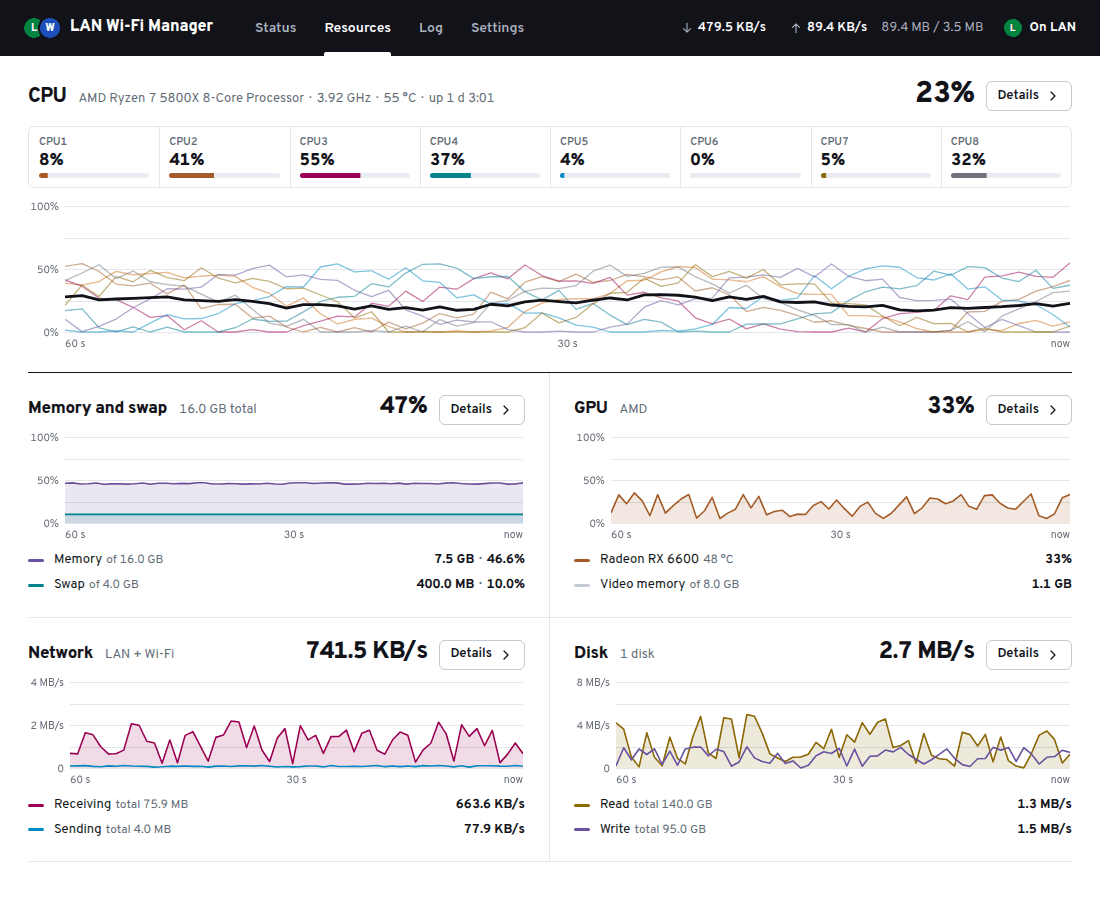
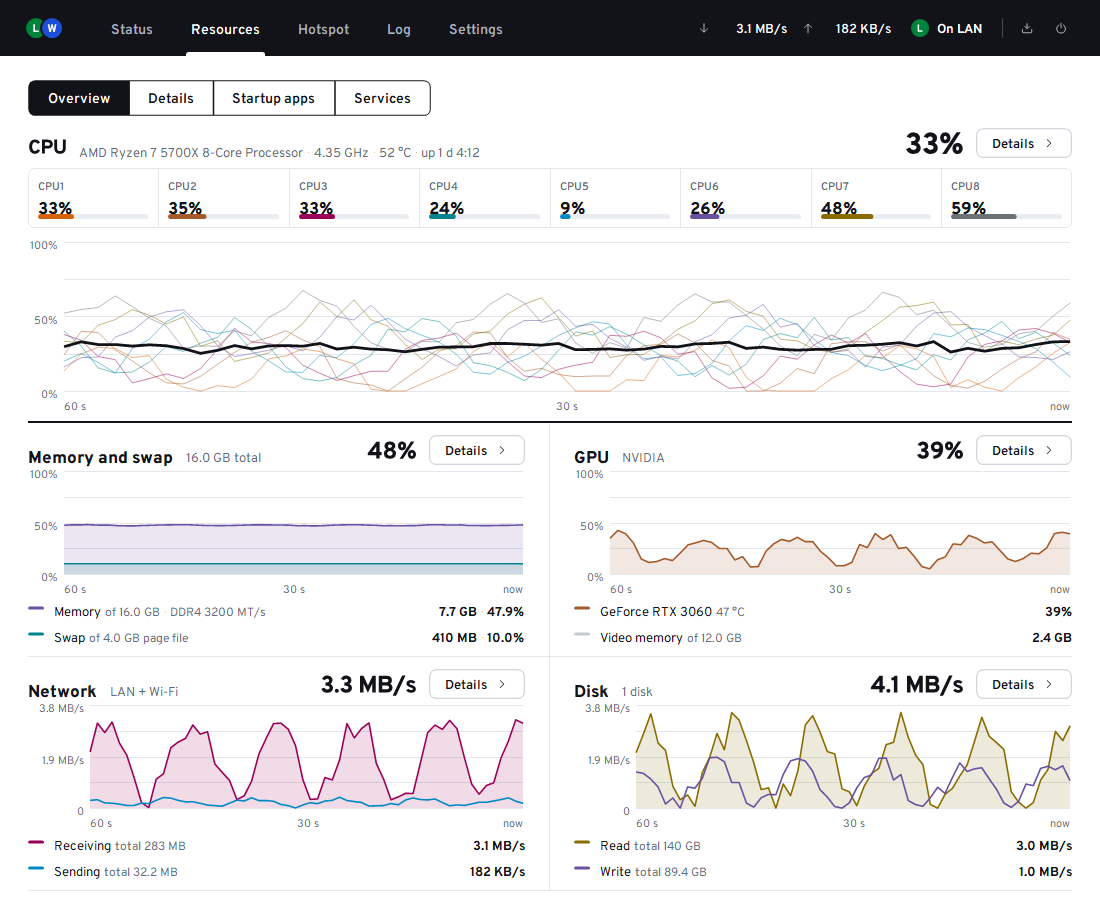
Website: update for 2.6.0, add Split and Hotspot screenshots

Changed region(s): [[0.0, 0.0, 0.9891, 0.9956], [0.7418, 0.0, 0.9582, 0.0622], [0.6491, 0.0, 0.7109, 0.0622]]

diff --git a/docs/index.html b/docs/index.html
@@ -64,22 +64,25 @@
       "applicationSubCategory": "Network failover",
       "installUrl": "https://lan.bilalnasr.com/#download",
       "operatingSystem": "Windows 10, Windows 11, Ubuntu 24.04, macOS 13.6 or later",
-      "softwareVersion": "2.5.0",
+      "softwareVersion": "2.6.0",
       "datePublished": "2026-09-25",
-      "dateModified": "2026-11-01",
-      "releaseNotes": "https://github.com/bilal-nasr/lan-wifi-manager/releases/tag/v2.5.0",
+      "dateModified": "2026-11-03",
+      "releaseNotes": "https://github.com/bilal-nasr/lan-wifi-manager/releases/tag/v2.6.0",
       "license": "https://github.com/bilal-nasr/lan-wifi-manager#license",
       "isAccessibleForFree": true,
       "image": "https://lan.bilalnasr.com/og-image.png",
       "screenshot": [
         "https://lan.bilalnasr.com/status.png",
+        "https://lan.bilalnasr.com/split.png",
+        "https://lan.bilalnasr.com/hotspot.png",
         "https://lan.bilalnasr.com/resources.png",
+        "https://lan.bilalnasr.com/details.png",
         "https://lan.bilalnasr.com/settings.png"
       ],
       "downloadUrl": [
-        "https://github.com/bilal-nasr/lan-wifi-manager/releases/download/v2.5.0/LanWifiManager.exe",
-        "https://github.com/bilal-nasr/lan-wifi-manager/releases/download/v2.5.0/LanWifiManager_2.5.0_amd64.deb",
-        "https://github.com/bilal-nasr/lan-wifi-manager/releases/download/v2.5.0/LanWifiManager_2.5.0_universal.dmg"
+        "https://github.com/bilal-nasr/lan-wifi-manager/releases/download/v2.6.0/LanWifiManager.exe",
+        "https://github.com/bilal-nasr/lan-wifi-manager/releases/download/v2.6.0/LanWifiManager_2.6.0_amd64.deb",
+        "https://github.com/bilal-nasr/lan-wifi-manager/releases/download/v2.6.0/LanWifiManager_2.6.0_universal.dmg"
       ],
       "author": { "@id": "https://lan.bilalnasr.com/#developer" },
       "publisher": { "@id": "https://lan.bilalnasr.com/#developer" },
@@ -145,7 +148,7 @@
       </ul>
     </nav>
     <div class="band-right">
-      <span class="ver">v2.5.0</span>
+      <span class="ver">v2.6.0</span>
       <a class="band-cta" href="#download"><svg class="icon" aria-hidden="true"><use href="#i-down"/></svg>Download</a>
     </div>
   </div>
@@ -195,20 +198,20 @@
           <span class="t"></span><span class="spine" style="--i:4"></span>
           <div class="msg">
             <div class="get" aria-label="Download the latest version" role="group">
-              <a class="btn primary" data-os="win" href="https://github.com/bilal-nasr/lan-wifi-manager/releases/download/v2.5.0/LanWifiManager.exe">
+              <a class="btn primary" data-os="win" href="https://github.com/bilal-nasr/lan-wifi-manager/releases/download/v2.6.0/LanWifiManager.exe">
                 <svg class="icon" aria-hidden="true"><use href="#i-down"/></svg>
                 <span><b>Windows 10 and 11</b><small>Portable .exe, 1.9 MB</small></span>
               </a>
-              <a class="btn" data-os="linux" href="https://github.com/bilal-nasr/lan-wifi-manager/releases/download/v2.5.0/LanWifiManager_2.5.0_amd64.deb">
+              <a class="btn" data-os="linux" href="https://github.com/bilal-nasr/lan-wifi-manager/releases/download/v2.6.0/LanWifiManager_2.6.0_amd64.deb">
                 <svg class="icon" aria-hidden="true"><use href="#i-down"/></svg>
                 <span><b>Ubuntu 24.04</b><small>.deb package, 8.5 MB</small></span>
               </a>
-              <a class="btn" data-os="mac" href="https://github.com/bilal-nasr/lan-wifi-manager/releases/download/v2.5.0/LanWifiManager_2.5.0_universal.dmg">
+              <a class="btn" data-os="mac" href="https://github.com/bilal-nasr/lan-wifi-manager/releases/download/v2.6.0/LanWifiManager_2.6.0_universal.dmg">
                 <svg class="icon" aria-hidden="true"><use href="#i-down"/></svg>
-                <span><b>macOS 13.6+ (preview)</b><small>Universal .dmg, 13.7 MB</small></span>
+                <span><b>macOS 13.6+ (preview)</b><small>Universal .dmg, 13.9 MB</small></span>
               </a>
             </div>
-            <p class="get-meta">Version 2.5.0 for Windows, Ubuntu and macOS<span class="dot" aria-hidden="true">·</span>1 November 2026<span class="dot" aria-hidden="true">·</span>Free, no account<span class="dot" aria-hidden="true">·</span><a href="#download">Install notes and checksums</a><span class="dot" aria-hidden="true">·</span><a href="#feedback">Report a bug or rate it</a></p>
+            <p class="get-meta">Version 2.6.0 for Windows, Ubuntu and macOS<span class="dot" aria-hidden="true">·</span>3 November 2026<span class="dot" aria-hidden="true">·</span>Free, no account<span class="dot" aria-hidden="true">·</span><a href="#download">Install notes and checksums</a><span class="dot" aria-hidden="true">·</span><a href="#feedback">Report a bug or rate it</a></p>
           </div>
           <span class="m" aria-hidden="true"></span><span class="m" aria-hidden="true"></span>
         </div>
@@ -248,8 +251,8 @@
             <tr><th scope="row">Systems</th><td>Windows 10 and 11. Ubuntu 24.04. macOS 13.6 or later as a preview, not yet tested on a real Mac.</td></tr>
             <tr><th scope="row">Price</th><td>Free for personal and work use. No ads, no paid tier, no account.</td></tr>
             <tr><th scope="row">Licence</th><td>Freeware, closed source. Please don't redistribute modified copies.</td></tr>
-            <tr><th scope="row">Latest version</th><td>2.5.0 for Windows, Ubuntu and macOS, released <time datetime="2026-11-01">1 November 2026</time> (<a href="https://github.com/bilal-nasr/lan-wifi-manager/releases/tag/v2.5.0">release notes</a>). First public release: 1.5.0, <time datetime="2026-09-25">25 September 2026</time>.</td></tr>
-            <tr><th scope="row">Files</th><td>Windows: portable .exe, 1.9 MB, not code-signed. Ubuntu: .deb package, 8.5 MB. macOS: universal .dmg, 13.7 MB, not signed or notarized.</td></tr>
+            <tr><th scope="row">Latest version</th><td>2.6.0 for Windows, Ubuntu and macOS, released <time datetime="2026-11-03">3 November 2026</time> (<a href="https://github.com/bilal-nasr/lan-wifi-manager/releases/tag/v2.6.0">release notes</a>). First public release: 1.5.0, <time datetime="2026-09-25">25 September 2026</time>.</td></tr>
+            <tr><th scope="row">Files</th><td>Windows: portable .exe, 1.9 MB, not code-signed. Ubuntu: .deb package, 8.5 MB. macOS: universal .dmg, 13.9 MB, not signed or notarized.</td></tr>
             <tr><th scope="row">Privacy</th><td>No telemetry. It contacts only your ping targets, your adapters' DNS servers, and the GitHub API to check for updates, which you can turn off.</td></tr>
             <tr><th scope="row">Developer</th><td><a href="https://github.com/bilal-nasr">bilal-nasr</a> on GitHub. Contact: <a href="mailto:me@bilalnasr.com">me@bilalnasr.com</a>. Bug reports go to <a href="https://github.com/bilal-nasr/lan-wifi-manager/issues">GitHub issues</a> or by email; <a href="#feedback">rate the app or report a bug</a>.</td></tr>
           </tbody>
@@ -372,19 +375,32 @@
       <header>
         <h2 id="h-screens">See which line carries your traffic</h2>
         <p>The Status tab draws your two connections as a route map: the thick line is the one in use, and every switch is marked where it happened.</p>
+        <p>Screenshots use invented demo data (Windows, light theme).</p>
       </header>
       <div class="board-body shots">
         <figure class="shot wide">
-          <a class="shot-link" href="status.png"><img src="status.png" width="1100" height="769" loading="lazy" decoding="async" alt="Status tab of LAN Wi-Fi Manager. The heading says LAN, carrying traffic at 7 ms with Wi-Fi on standby at 23 ms. A route map shows the LAN line losing replies, an interchange down to Wi-Fi, and an interchange back to LAN. Below it, a latency chart for both links, with the time spent on Wi-Fi shaded."></a>
-          <figcaption>Status: latency, packet loss, jitter and DNS for both links, the mode (Auto failover, Use LAN, Use Wi-Fi), Toggle and Check now.</figcaption>
+          <a class="shot-link" href="status.png"><img src="status.png" width="1100" height="770" loading="lazy" decoding="async" alt="Status tab in Auto failover: the app is on LAN, switched to Wi-Fi when LAN stopped answering, then back, with the route timeline and latency chart."></a>
+          <figcaption>Status: latency, packet loss, jitter and DNS for both links, the mode (Auto failover, Use LAN, Use Wi-Fi, Split), Toggle and Check now.</figcaption>
         </figure>
         <figure class="shot">
-          <a class="shot-link" href="resources.png"><img src="resources.png" width="1100" height="900" loading="lazy" decoding="async" alt="Resources tab showing a CPU core strip and history chart, then panels for memory and swap, GPU, network and disk, each with a 60-second history."></a>
+          <a class="shot-link" href="split.png"><img src="split.png" width="1100" height="772" loading="lazy" decoding="async" alt="Status tab in Split mode: LAN alone 94 Mbps, Wi-Fi alone 59 Mbps, and both together 149 Mbps in the combined speed board, with each line's public address and share of new connections."></a>
+          <figcaption>Split: a speed test measures the LAN alone, the Wi-Fi alone and both together, and shows where new connections go. It helps when the two lines are separate internet connections.</figcaption>
+        </figure>
+        <figure class="shot">
+          <a class="shot-link" href="hotspot.png"><img src="hotspot.png" width="1100" height="800" loading="lazy" decoding="async" alt="Hotspot tab sharing the Ethernet connection to two connected devices, with the network name, band, device list and a live usage chart."></a>
+          <figcaption>Hotspot: share your computer's internet over Wi-Fi, see who is connected and how much data they use.</figcaption>
+        </figure>
+        <figure class="shot">
+          <a class="shot-link" href="resources.png"><img src="resources.png" width="1100" height="900" loading="lazy" decoding="async" alt="Resources tab, Overview: CPU with per-core lines, memory and swap, GPU, network and disk graphs."></a>
           <figcaption>Resources: CPU, memory, GPU, network and disk, with a process list and End task.</figcaption>
         </figure>
         <figure class="shot">
-          <a class="shot-link" href="settings.png"><img src="settings.png" width="1100" height="820" loading="lazy" decoding="async" alt="Settings tab with sections for Monitoring, Connection quality, Adapters, Speed in the bar, Startup and closing, and Updates and about."></a>
-          <figcaption>Settings: check interval, when to switch, quality limits, adapters, startup and updates.</figcaption>
+          <a class="shot-link" href="details.png"><img src="details.png" width="1100" height="800" loading="lazy" decoding="async" alt="Resources tab, Details: a Task Manager-style process list with CPU, memory, disk, GPU and network columns, grouped by app."></a>
+          <figcaption>Details: every app in one table with its CPU, memory, disk, GPU and network use.</figcaption>
+        </figure>
+        <figure class="shot wide">
+          <a class="shot-link" href="settings.png"><img src="settings.png" width="1100" height="740" loading="lazy" decoding="async" alt="Settings, Updates and about page with the version, update check, Report a bug, Rate this app and Contact buttons."></a>
+          <figcaption>Settings: check interval, when to switch, quality limits, adapters, startup and updates. Report a bug, Rate this app and Contact are on the Updates and about page.</figcaption>
         </figure>
       </div>
     </div>
@@ -406,6 +422,7 @@
         <div><dt>Manual modes</dt><dd>Use LAN, Use Wi-Fi, Toggle and Split, from the window or from the tray or top-bar icon.</dd></div>
         <div><dt>Runs in the background</dt><dd>Closes to the tray or top bar, starts at login if you want, notifies you when it switches, and keeps a daily log.</dd></div>
         <div><dt>Explains every switch</dt><dd>The log tab lists each check that failed and why, for example packet loss or DNS not answering.</dd></div>
+        <div><dt>Report a bug and rate the app</dt><dd>Both are built in. Report a bug opens a draft in your mail app (to me@bilalnasr.com) or on GitHub, with your system and version filled in and an optional copy of the last 30 log lines. Rate this app takes 1 to 5 stars and a note. The app sends nothing by itself: you read the draft and press send. It may ask for a rating once after a couple of weeks, at most twice, and you can tell it to stop.</dd></div>
         <div><dt>Updates</dt><dd>The Windows app updates itself. On Ubuntu and macOS it tells you when a new version is out and opens the download. You can turn update checks off.</dd></div>
       </dl>
     </div>
@@ -415,14 +432,14 @@
     <div class="wrap board">
       <header>
         <h2 id="h-download">Download and install</h2>
-        <p>Version 2.5.0 for Windows, Ubuntu and macOS, released 1 November 2026. Free for personal and work use. Older versions and release notes are on the <a href="https://github.com/bilal-nasr/lan-wifi-manager/releases">releases page</a>.</p>
+        <p>Version 2.6.0 for Windows, Ubuntu and macOS, released 3 November 2026. Free for personal and work use. Older versions and release notes are on the <a href="https://github.com/bilal-nasr/lan-wifi-manager/releases">releases page</a>.</p>
       </header>
       <div class="board-body">
         <div class="os" id="windows">
           <h3>Windows 10 and 11<small>Portable, nothing to install</small></h3>
           <div class="os-body">
             <div class="file">
-              <a class="btn primary" href="https://github.com/bilal-nasr/lan-wifi-manager/releases/download/v2.5.0/LanWifiManager.exe"><svg class="icon" aria-hidden="true"><use href="#i-down"/></svg>LanWifiManager.exe</a>
+              <a class="btn primary" href="https://github.com/bilal-nasr/lan-wifi-manager/releases/download/v2.6.0/LanWifiManager.exe"><svg class="icon" aria-hidden="true"><use href="#i-down"/></svg>LanWifiManager.exe</a>
               <span class="size">1.9 MB</span>
             </div>
             <ol>
@@ -431,7 +448,7 @@
               <li>If SmartScreen says <b>Windows protected your PC</b>, choose <b>More info</b>, then <b>Run anyway</b>.</li>
             </ol>
             <p class="note"><b>Why the warning:</b> the exe is not code-signed, so Windows doesn't recognise the publisher. If you want to check the file, compare its hash: in PowerShell, <code class="nw">Get-FileHash .\LanWifiManager.exe</code>.</p>
-            <p class="hash">SHA-256 <code>26f33588bc537967490605a9f128d17eb2ed66a4d5c36684bf76a361d70603c8</code></p>
+            <p class="hash">SHA-256 <code>5b30001515c1d36853ffbacb8f4f8eb3cd778d8074727659c0651d5445f72ff8</code></p>
           </div>
         </div>
 
@@ -439,17 +456,17 @@
           <h3>Ubuntu 24.04<small>64-bit .deb package</small></h3>
           <div class="os-body">
             <div class="file">
-              <a class="btn" href="https://github.com/bilal-nasr/lan-wifi-manager/releases/download/v2.5.0/LanWifiManager_2.5.0_amd64.deb"><svg class="icon" aria-hidden="true"><use href="#i-down"/></svg>LanWifiManager_2.5.0_amd64.deb</a>
+              <a class="btn" href="https://github.com/bilal-nasr/lan-wifi-manager/releases/download/v2.6.0/LanWifiManager_2.6.0_amd64.deb"><svg class="icon" aria-hidden="true"><use href="#i-down"/></svg>LanWifiManager_2.6.0_amd64.deb</a>
               <span class="size">8.5 MB</span>
             </div>
             <ol>
               <li>In the folder you downloaded it to, install it:</li>
             </ol>
-            <div class="code"><pre><code>sudo apt install ./LanWifiManager_2.5.0_amd64.deb</code></pre></div>
+            <div class="code"><pre><code>sudo apt install ./LanWifiManager_2.6.0_amd64.deb</code></pre></div>
             <ol start="2">
               <li>Open <b>LAN Wi-Fi Manager</b> from the app list. Switching needs no password: NetworkManager allows it for the signed-in user.</li>
             </ol>
-            <p class="hash">SHA-256 <code>e8c996925c879f0fec9c03956149c4c3a095c1d2ab56d62ade2a144983aaf744</code></p>
+            <p class="hash">SHA-256 <code>7b122dd483d750c00931e4e495879f774362d106bf5345240d75143eeea1ed6b</code></p>
           </div>
         </div>
 
@@ -457,8 +474,8 @@
           <h3>macOS 13.6 or later<small>Universal .dmg, Apple silicon and Intel</small><span class="tag">Preview: not yet tested on a real Mac</span></h3>
           <div class="os-body">
             <div class="file">
-              <a class="btn" href="https://github.com/bilal-nasr/lan-wifi-manager/releases/download/v2.5.0/LanWifiManager_2.5.0_universal.dmg"><svg class="icon" aria-hidden="true"><use href="#i-down"/></svg>LanWifiManager_2.5.0_universal.dmg</a>
-              <span class="size">13.7 MB</span>
+              <a class="btn" href="https://github.com/bilal-nasr/lan-wifi-manager/releases/download/v2.6.0/LanWifiManager_2.6.0_universal.dmg"><svg class="icon" aria-hidden="true"><use href="#i-down"/></svg>LanWifiManager_2.6.0_universal.dmg</a>
+              <span class="size">13.9 MB</span>
             </div>
             <ol>
               <li>Drag the app to <b>Applications</b> and open it.</li>
@@ -466,7 +483,7 @@
               <li>Allow the one-time switching helper when the app asks. This needs an administrator account.</li>
             </ol>
             <p class="note"><b>Why the warning:</b> the app is not signed or notarized by Apple. Monitoring and the speed display work without the helper; only switching needs it. Please report anything that doesn't work in an <a href="https://github.com/bilal-nasr/lan-wifi-manager/issues">issue</a>.</p>
-            <p class="hash">SHA-256 <code>ec56c9e285dddefec067a012ccca3192bbb07d550c18022974bcf02ac1c7af16</code></p>
+            <p class="hash">SHA-256 <code>fd8c1b2aab3e753d3410fd3332149a3324d5aa86e4bd3e3a4f253bac915de686</code></p>
           </div>
         </div>
 
@@ -583,10 +600,10 @@
     <div class="wrap board">
       <header>
         <h2 id="h-feedback">Report a bug or rate the app</h2>
-        <p>One person makes this app, and every report is read. If something broke, or it saved your evening, say so.</p>
+        <p>One person makes this app, and every report is read. If something broke, or it saved your evening, say so. Since 2.6.0 the app can do both for you: Report a bug and Rate this app are built in, and nothing is sent until you send it.</p>
       </header>
       <ul class="board-body links">
-        <li><a href="https://github.com/bilal-nasr/lan-wifi-manager/issues/new"><b>Report a bug on GitHub</b><span>Public and searchable. Include your system, the app version (v2.5.0 is the latest) and the Log tab lines around the problem.</span><svg class="icon" aria-hidden="true"><use href="#i-right"/></svg></a></li>
+        <li><a href="https://github.com/bilal-nasr/lan-wifi-manager/issues/new"><b>Report a bug on GitHub</b><span>Public and searchable. Include your system, the app version (v2.6.0 is the latest) and the Log tab lines around the problem.</span><svg class="icon" aria-hidden="true"><use href="#i-right"/></svg></a></li>
         <li><a href="mailto:me@bilalnasr.com?subject=LAN%20Wi-Fi%20Manager%20bug%20report"><b>Report a bug by email</b><span>Prefer not to use GitHub? Write to me@bilalnasr.com with the same details.</span><svg class="icon" aria-hidden="true"><use href="#i-right"/></svg></a></li>
         <li><a href="https://github.com/bilal-nasr/lan-wifi-manager"><b>Rate it with a star on GitHub</b><span>Press Star at the top of the repository. It is the quickest way to tell me, and others, that it works.</span><svg class="icon" aria-hidden="true"><use href="#i-right"/></svg></a></li>
         <li><a href="mailto:me@bilalnasr.com?subject=LAN%20Wi-Fi%20Manager%20feedback"><b>Rate it or send feedback by email</b><span>Tell me what worked, what didn't, and which system you use. The macOS build is a preview, so reports from real Macs help most.</span><svg class="icon" aria-hidden="true"><use href="#i-right"/></svg></a></li>

diff --git a/docs/guides/ethernet-and-wifi-at-the-same-time/index.html b/docs/guides/ethernet-and-wifi-at-the-same-time/index.html
@@ -47,7 +47,7 @@
   "headline": "Using Ethernet and Wi-Fi at the same time",
   "description": "Which connection your computer uses when Ethernet and Wi-Fi are both connected, why speeds don't add up, and how to prioritize Ethernet on Windows, Ubuntu and Mac.",
   "datePublished": "2026-10-08",
-  "dateModified": "2026-11-01",
+  "dateModified": "2026-11-03",
   "author": { "@type": "Person", "@id": "https://lan.bilalnasr.com/#developer", "name": "bilal-nasr", "url": "https://github.com/bilal-nasr", "sameAs": ["https://github.com/bilal-nasr"] },
   "publisher": { "@type": "Person", "@id": "https://lan.bilalnasr.com/#developer", "name": "bilal-nasr", "url": "https://github.com/bilal-nasr", "sameAs": ["https://github.com/bilal-nasr"] },
   "image": "https://lan.bilalnasr.com/og-image.png",
@@ -78,7 +78,7 @@
       </ul>
     </nav>
     <div class="band-right">
-      <span class="ver">v2.5.0</span>
+      <span class="ver">v2.6.0</span>
       <a class="band-cta" href="../../#download"><svg class="icon" aria-hidden="true"><use href="#i-down"/></svg>Download</a>
     </div>
   </div>
@@ -96,7 +96,7 @@
   <header class="page-head">
     <h1>Using Ethernet and Wi-Fi at the same time</h1>
     <p class="lede">Plugging in a cable doesn't have to turn your Wi-Fi off. Here is what your computer does with two connections, whether it's worth keeping both, and how to choose which one comes first on Windows, Ubuntu and macOS.</p>
-    <p class="meta">Last updated <time datetime="2026-11-01">1 November 2026</time><span class="dot" aria-hidden="true">·</span>Windows 10 and 11, Ubuntu 24.04, macOS</p>
+    <p class="meta">Last updated <time datetime="2026-11-03">3 November 2026</time><span class="dot" aria-hidden="true">·</span>Windows 10 and 11, Ubuntu 24.04, macOS</p>
   </header>
 
   <div class="article">
@@ -176,19 +176,19 @@ nmcli connection up "Wired connection 1"</code></pre></div>
       <p>LAN Wi-Fi Manager does that on Windows, Ubuntu and macOS (macOS as an untested preview). It keeps both connections up, pings through each adapter every 30 seconds by default, moves your traffic to Wi-Fi after 2 bad checks of the LAN, and moves it back after 2 good ones. It changes the same settings described above: the interface metric on Windows, the route metric on Ubuntu and the service order on macOS.</p>
       <div class="app-box">
         <h3><span class="brand-mark" aria-hidden="true"><i class="bullet lan">L</i><i class="bullet wifi">W</i></span>LAN Wi-Fi Manager</h3>
-        <p>Free, closed source, no account. Version 2.5.0 for Windows, Ubuntu and macOS.</p>
+        <p>Free, closed source, no account. Version 2.6.0 for Windows, Ubuntu and macOS.</p>
         <div class="get">
-          <a class="btn primary" data-os="win" href="https://github.com/bilal-nasr/lan-wifi-manager/releases/download/v2.5.0/LanWifiManager.exe">
+          <a class="btn primary" data-os="win" href="https://github.com/bilal-nasr/lan-wifi-manager/releases/download/v2.6.0/LanWifiManager.exe">
             <svg class="icon" aria-hidden="true"><use href="#i-down"/></svg>
             <span><b>Windows 10 and 11</b><small>Portable .exe, 1.9 MB</small></span>
           </a>
-          <a class="btn" data-os="linux" href="https://github.com/bilal-nasr/lan-wifi-manager/releases/download/v2.5.0/LanWifiManager_2.5.0_amd64.deb">
+          <a class="btn" data-os="linux" href="https://github.com/bilal-nasr/lan-wifi-manager/releases/download/v2.6.0/LanWifiManager_2.6.0_amd64.deb">
             <svg class="icon" aria-hidden="true"><use href="#i-down"/></svg>
             <span><b>Ubuntu 24.04</b><small>.deb package, 8.5 MB</small></span>
           </a>
-          <a class="btn" data-os="mac" href="https://github.com/bilal-nasr/lan-wifi-manager/releases/download/v2.5.0/LanWifiManager_2.5.0_universal.dmg">
+          <a class="btn" data-os="mac" href="https://github.com/bilal-nasr/lan-wifi-manager/releases/download/v2.6.0/LanWifiManager_2.6.0_universal.dmg">
             <svg class="icon" aria-hidden="true"><use href="#i-down"/></svg>
-            <span><b>macOS 13.6+ (preview)</b><small>Universal .dmg, 13.7 MB</small></span>
+            <span><b>macOS 13.6+ (preview)</b><small>Universal .dmg, 13.9 MB</small></span>
           </a>
         </div>
         <p class="get-meta"><a href="../../#download">Install notes, SmartScreen and Gatekeeper warnings, checksums</a></p>

diff --git a/docs/guides/ubuntu-ethernet-wifi-failover/index.html b/docs/guides/ubuntu-ethernet-wifi-failover/index.html
@@ -47,7 +47,7 @@
   "headline": "Ubuntu: use Wi-Fi when Ethernet has no internet",
   "description": "How Ubuntu picks Ethernet or Wi-Fi, changing the route metric with nmcli, what NetworkManager's connectivity check does, and automatic failover.",
   "datePublished": "2026-10-08",
-  "dateModified": "2026-11-01",
+  "dateModified": "2026-11-03",
   "author": { "@type": "Person", "@id": "https://lan.bilalnasr.com/#developer", "name": "bilal-nasr", "url": "https://github.com/bilal-nasr", "sameAs": ["https://github.com/bilal-nasr"] },
   "publisher": { "@type": "Person", "@id": "https://lan.bilalnasr.com/#developer", "name": "bilal-nasr", "url": "https://github.com/bilal-nasr", "sameAs": ["https://github.com/bilal-nasr"] },
   "image": "https://lan.bilalnasr.com/og-image.png",
@@ -78,7 +78,7 @@
       </ul>
     </nav>
     <div class="band-right">
-      <span class="ver">v2.5.0</span>
+      <span class="ver">v2.6.0</span>
       <a class="band-cta" href="../../#download"><svg class="icon" aria-hidden="true"><use href="#i-down"/></svg>Download</a>
     </div>
   </div>
@@ -96,7 +96,7 @@
   <header class="page-head">
     <h1>Ubuntu: use Wi-Fi when Ethernet has no internet</h1>
     <p class="lede">Ubuntu can keep Ethernet and Wi-Fi connected together, and NetworkManager decides which one carries your traffic. This guide shows how that choice is made, how to change it with <code>nmcli</code>, and how far the built-in connectivity check goes.</p>
-    <p class="meta">Last updated <time datetime="2026-11-01">1 November 2026</time><span class="dot" aria-hidden="true">·</span>Ubuntu 24.04 with NetworkManager</p>
+    <p class="meta">Last updated <time datetime="2026-11-03">3 November 2026</time><span class="dot" aria-hidden="true">·</span>Ubuntu 24.04 with NetworkManager</p>
   </header>
 
   <div class="article">
@@ -183,11 +183,11 @@ grep -r -A4 "\[connectivity\]" /etc/NetworkManager /usr/lib/NetworkManager 2>/de
       </ul>
       <div class="app-box">
         <h3><span class="brand-mark" aria-hidden="true"><i class="bullet lan">L</i><i class="bullet wifi">W</i></span>LAN Wi-Fi Manager for Ubuntu</h3>
-        <p>Free, closed source, no account. Install with <code>sudo apt install ./LanWifiManager_2.5.0_amd64.deb</code> from the download folder.</p>
+        <p>Free, closed source, no account. Install with <code>sudo apt install ./LanWifiManager_2.6.0_amd64.deb</code> from the download folder.</p>
         <div class="get">
-          <a class="btn primary" href="https://github.com/bilal-nasr/lan-wifi-manager/releases/download/v2.5.0/LanWifiManager_2.5.0_amd64.deb">
+          <a class="btn primary" href="https://github.com/bilal-nasr/lan-wifi-manager/releases/download/v2.6.0/LanWifiManager_2.6.0_amd64.deb">
             <svg class="icon" aria-hidden="true"><use href="#i-down"/></svg>
-            <span><b>Download for Ubuntu 24.04</b><small>.deb package, version 2.5.0, 8.5 MB</small></span>
+            <span><b>Download for Ubuntu 24.04</b><small>.deb package, version 2.6.0, 8.5 MB</small></span>
           </a>
           <a class="btn" href="../../#how-it-works">
             <svg class="icon" aria-hidden="true"><use href="#i-right"/></svg>

diff --git a/docs/guides/switch-ethernet-to-wifi-windows/index.html b/docs/guides/switch-ethernet-to-wifi-windows/index.html
@@ -47,7 +47,7 @@
   "headline": "Switch from Ethernet to Wi-Fi automatically on Windows 11 and 10",
   "description": "Why Windows keeps using an Ethernet connection that has no internet, how to change the interface metric by hand, and how to fall back to Wi-Fi automatically.",
   "datePublished": "2026-10-08",
-  "dateModified": "2026-11-01",
+  "dateModified": "2026-11-03",
   "author": { "@type": "Person", "@id": "https://lan.bilalnasr.com/#developer", "name": "bilal-nasr", "url": "https://github.com/bilal-nasr", "sameAs": ["https://github.com/bilal-nasr"] },
   "publisher": { "@type": "Person", "@id": "https://lan.bilalnasr.com/#developer", "name": "bilal-nasr", "url": "https://github.com/bilal-nasr", "sameAs": ["https://github.com/bilal-nasr"] },
   "image": "https://lan.bilalnasr.com/og-image.png",
@@ -78,7 +78,7 @@
       </ul>
     </nav>
     <div class="band-right">
-      <span class="ver">v2.5.0</span>
+      <span class="ver">v2.6.0</span>
       <a class="band-cta" href="../../#download"><svg class="icon" aria-hidden="true"><use href="#i-down"/></svg>Download</a>
     </div>
   </div>
@@ -96,7 +96,7 @@
   <header class="page-head">
     <h1>Switch from Ethernet to Wi-Fi automatically on Windows 11 and 10</h1>
     <p class="lede">Your PC is plugged in by cable and also connected to Wi-Fi. The cable's internet stops working, but Windows keeps using it. Here is why, how to change it by hand, and what a manual fix can't do.</p>
-    <p class="meta">Last updated <time datetime="2026-11-01">1 November 2026</time><span class="dot" aria-hidden="true">·</span>Windows 10 and 11</p>
+    <p class="meta">Last updated <time datetime="2026-11-03">3 November 2026</time><span class="dot" aria-hidden="true">·</span>Windows 10 and 11</p>
   </header>
 
   <div class="article">
@@ -185,9 +185,9 @@ Set-NetIPInterface -InterfaceAlias "Ethernet" -AutomaticMetric Enabled</code></p
         <h3><span class="brand-mark" aria-hidden="true"><i class="bullet lan">L</i><i class="bullet wifi">W</i></span>LAN Wi-Fi Manager for Windows</h3>
         <p>Free, closed source, portable, no account. It needs administrator rights, and SmartScreen will warn you because the exe isn't code-signed (<b>More info → Run anyway</b>).</p>
         <div class="get">
-          <a class="btn primary" href="https://github.com/bilal-nasr/lan-wifi-manager/releases/download/v2.5.0/LanWifiManager.exe">
+          <a class="btn primary" href="https://github.com/bilal-nasr/lan-wifi-manager/releases/download/v2.6.0/LanWifiManager.exe">
             <svg class="icon" aria-hidden="true"><use href="#i-down"/></svg>
-            <span><b>Download for Windows 10 and 11</b><small>LanWifiManager.exe, version 2.5.0, 1.9 MB</small></span>
+            <span><b>Download for Windows 10 and 11</b><small>LanWifiManager.exe, version 2.6.0, 1.9 MB</small></span>
           </a>
           <a class="btn" href="../../#how-it-works">
             <svg class="icon" aria-hidden="true"><use href="#i-right"/></svg>

diff --git a/docs/404.html b/docs/404.html
@@ -37,7 +37,7 @@
       </ul>
     </nav>
     <div class="band-right">
-      <span class="ver">v2.5.0</span>
+      <span class="ver">v2.6.0</span>
       <a class="band-cta" href="/#download"><svg class="icon" aria-hidden="true"><use href="#i-down"/></svg>Download</a>
     </div>
   </div>
@@ -64,7 +64,7 @@
         <div class="msg">
           <ul class="links">
             <li><a href="/"><b>Home</b><span>What LAN Wi-Fi Manager does and how it switches.</span><svg class="icon" aria-hidden="true"><use href="#i-right"/></svg></a></li>
-            <li><a href="/#download"><b>Download</b><span>Windows and Ubuntu 2.5.0, with a macOS preview.</span><svg class="icon" aria-hidden="true"><use href="#i-right"/></svg></a></li>
+            <li><a href="/#download"><b>Download</b><span>Windows and Ubuntu 2.6.0, with a macOS preview.</span><svg class="icon" aria-hidden="true"><use href="#i-right"/></svg></a></li>
             <li><a href="/guides/"><b>Guides</b><span>Ethernet, Wi-Fi and network priority on each system.</span><svg class="icon" aria-hidden="true"><use href="#i-right"/></svg></a></li>
           </ul>
         </div>

diff --git a/docs/guides/index.html b/docs/guides/index.html
@@ -63,7 +63,7 @@
       </ul>
     </nav>
     <div class="band-right">
-      <span class="ver">v2.5.0</span>
+      <span class="ver">v2.6.0</span>
       <a class="band-cta" href="../#download"><svg class="icon" aria-hidden="true"><use href="#i-down"/></svg>Download</a>
     </div>
   </div>
@@ -80,7 +80,7 @@
   <header class="page-head">
     <h1>Guides to Ethernet, Wi-Fi and network priority</h1>
     <p class="lede">How your computer chooses between a cable and Wi-Fi, how to change that by hand on each system, and what the built-in settings can't do. Each guide shows the manual method first.</p>
-    <p class="meta">Last updated <time datetime="2026-11-01">1 November 2026</time><span class="dot" aria-hidden="true">·</span>3 guides</p>
+    <p class="meta">Last updated <time datetime="2026-11-03">3 November 2026</time><span class="dot" aria-hidden="true">·</span>3 guides</p>
   </header>
 
   <div class="article">
